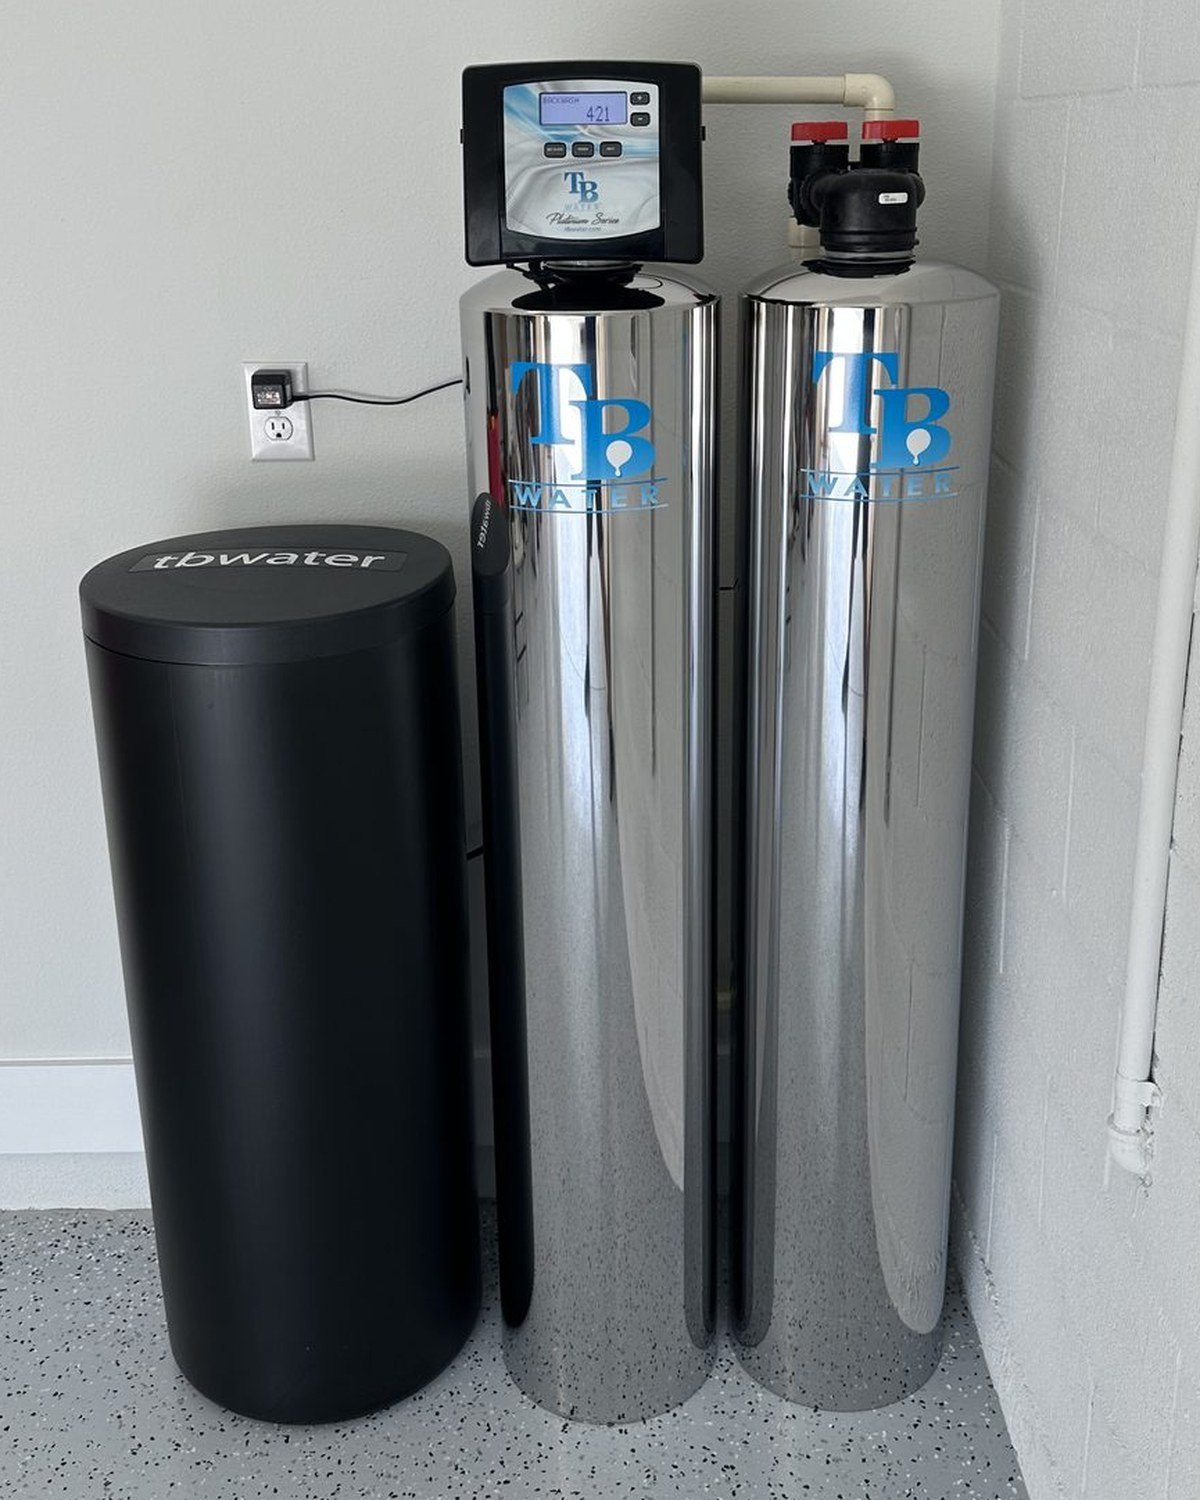
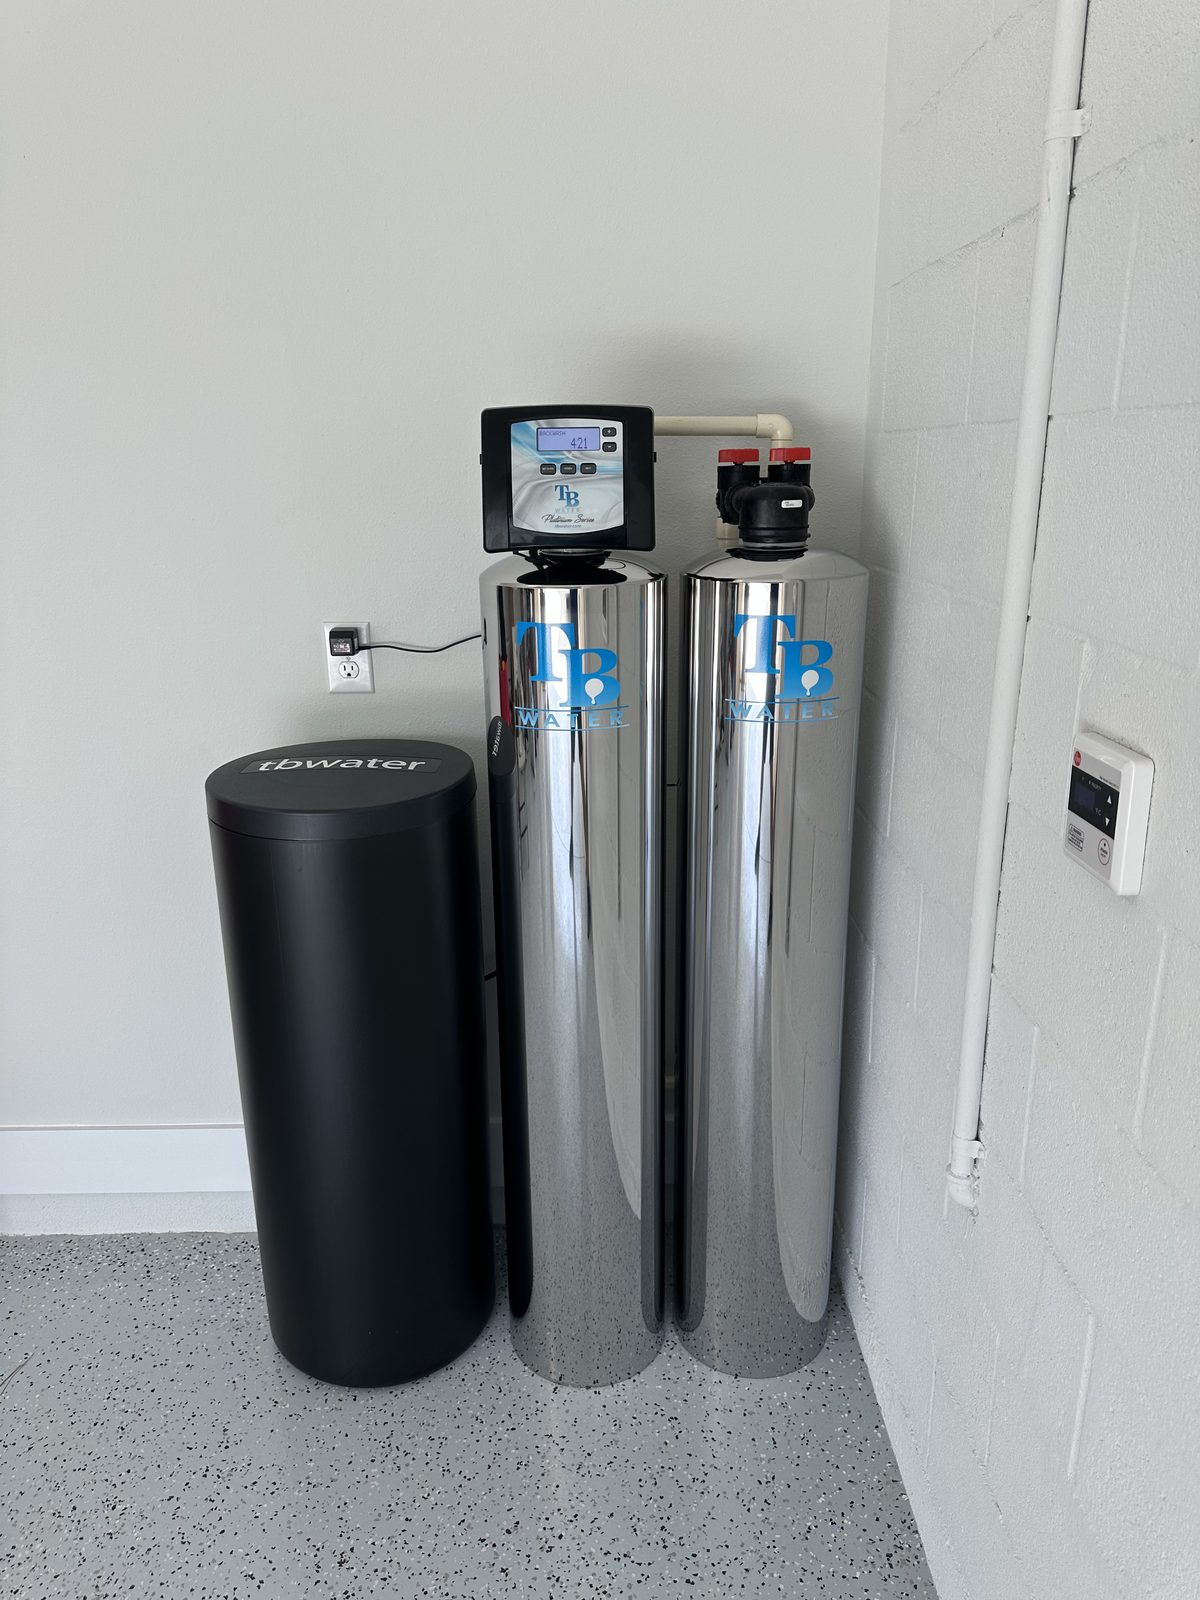
Deploy 2026-09-09_16:04

diff --git a/index.html b/index.html
@@ -331,6 +331,7 @@
           <input id="zip-code" name="zip" inputmode="numeric" autocomplete="postal-code" placeholder="34689" pattern="\d{5}" maxlength="5" required aria-describedby="zip-error">
           <p class="field-error" id="zip-error" hidden>Please add your name and a 5-digit ZIP.</p>
 
+          <label class="consent" for="check-consent"><input type="checkbox" id="check-consent" name="Contact consent"><span>Yes, TB Water can follow up with me about my water &mdash; and remind me when a filter or service is due. <b>No spam, no mailing lists</b>, and you can tell Dave to stop any time.</span></label>
           <button class="button button-primary button-lg check-submit" type="submit">See My Water Report</button>
           <p class="check-reassure">No obligation. Nobody will show up at your door.</p>
           <p class="form-note" role="status">Free &amp; instant &mdash; or just call <a href="tel:+17275858686">(727) 585-8686</a>.</p>
@@ -464,7 +465,7 @@
             <div class="product-media" data-carousel aria-label="Platinum ProSeries Twin Tank photos">
               <div class="carousel-track">
                 <figure class="carousel-slide slide-fit-install" data-image-src="public/images/tbwater-photos/twin-tank/twin-install-7.jpg" data-alt="Platinum ProSeries twin tank system installed in a Tampa Bay garage"></figure>
-                <figure class="carousel-slide slide-fit-install" data-image-src="public/images/tbwater-photos/twin-tank/twin-install-4.jpg" data-alt="Platinum ProSeries twin tank system installed at a customer home"></figure>
+                <figure class="carousel-slide slide-fit-install" data-image-src="public/images/tbwater-photos/twin-tank/twin-install-4-closeup.jpg" data-alt="Platinum ProSeries twin tank system installed at a customer home"></figure>
                 <figure class="carousel-slide slide-fit-install" data-image-src="public/images/tbwater-photos/twin-tank/twin-install-1.jpg" data-alt="TB Water twin tank whole home system installed in a Tampa Bay garage"></figure>
               </div>
               <button class="carousel-arrow carousel-prev" type="button" aria-label="Previous photo"><svg viewBox="0 0 24 24" aria-hidden="true"><path d="M14.5 6 8.5 12l6 6"/></svg></button>
@@ -915,6 +916,7 @@
           </select>
           <label for="message">Message</label>
           <textarea id="message" name="Message" rows="5" placeholder="Tell Dave what you're noticing in your water&hellip;"></textarea>
+          <label class="consent" for="contact-consent"><input type="checkbox" id="contact-consent" name="Contact consent"><span>Yes, TB Water can follow up with me about my water &mdash; and remind me when a filter or service is due. <b>No spam, no mailing lists</b>, and you can tell Dave to stop any time.</span></label>
           <button class="button button-primary button-lg" type="submit">Send My Water Info</button>
           <p class="form-note" role="status">Opens your email app with the details filled in &mdash; nothing is stored on this site.</p>
         </form>

diff --git a/script.js b/script.js
@@ -402,6 +402,8 @@
 
       // Silent lead capture. Fire-and-forget; never blocks the report, and a
       // failure here is invisible to the visitor - they still get their report.
+      const consentBox = waterForm.querySelector("#check-consent");
+      const consentOK = !!(consentBox && consentBox.checked);
       const endpoint = waterForm.dataset.leadEndpoint;
       if (endpoint) {
         const topConcerns = utility
@@ -426,6 +428,7 @@
         lead["ZIP"] = zip;
         lead["Their water utility"] = utility ? utility.name : "(not in our database)";
         lead["Worst in their water"] = topConcerns || "(no report generated)";
+        lead["OK to contact later"] = consentOK ? "Yes - they ticked the box" : "Not given - report only";
         lead["Came from"] = "tbwater.com water report";
 
         fetch(endpoint, {
@@ -556,8 +559,13 @@
 
       form.querySelectorAll("input, select, textarea").forEach((field) => {
         const label = field.getAttribute("name");
+        if (!label) return;
+        if (field.type === "checkbox") {
+          lines.push(`${label}: ${field.checked ? "Yes - they ticked the box" : "Not given"}`);
+          return;
+        }
         const value = field.value.trim();
-        if (label && value) lines.push(`${label}: ${value}`);
+        if (value) lines.push(`${label}: ${value}`);
       });
 
       lines.push("", "Sent from the TB Water website.");

diff --git a/styles.css b/styles.css
@@ -1062,6 +1062,39 @@ a { color: var(--brand-deep); }
   .hardness-stack { display: block; }
 }
 
+/* Permission to follow up. Deliberately unticked by default - a pre-ticked
+   consent box is exactly the sort of thing this market has learned to distrust. */
+.consent {
+  display: grid;
+  grid-template-columns: auto minmax(0, 1fr);
+  align-items: start;
+  gap: 0.6rem;
+  margin: 0.2rem 0 0.9rem;
+  padding: 0.75rem 0.85rem;
+  border: 1px solid var(--line);
+  border-radius: var(--radius-sm);
+  background: var(--foam);
+  cursor: pointer;
+  font-size: 0.83rem;
+  line-height: 1.45;
+  font-weight: 500;
+  color: var(--body-text);
+  text-transform: none;
+  letter-spacing: 0;
+}
+
+.consent input[type="checkbox"] {
+  width: 18px; height: 18px;
+  margin: 0.1rem 0 0;
+  flex: none;
+  accent-color: var(--brand);
+  cursor: pointer;
+}
+
+.consent b { color: var(--ink); font-weight: 700; }
+.consent:hover { border-color: var(--brand); background: var(--foam-2); }
+.consent:focus-within { outline: 2px solid var(--brand); outline-offset: 2px; }
+
 /* The form card itself gets lifted and labelled. */
 .check-water .check-form {
   position: relative;
